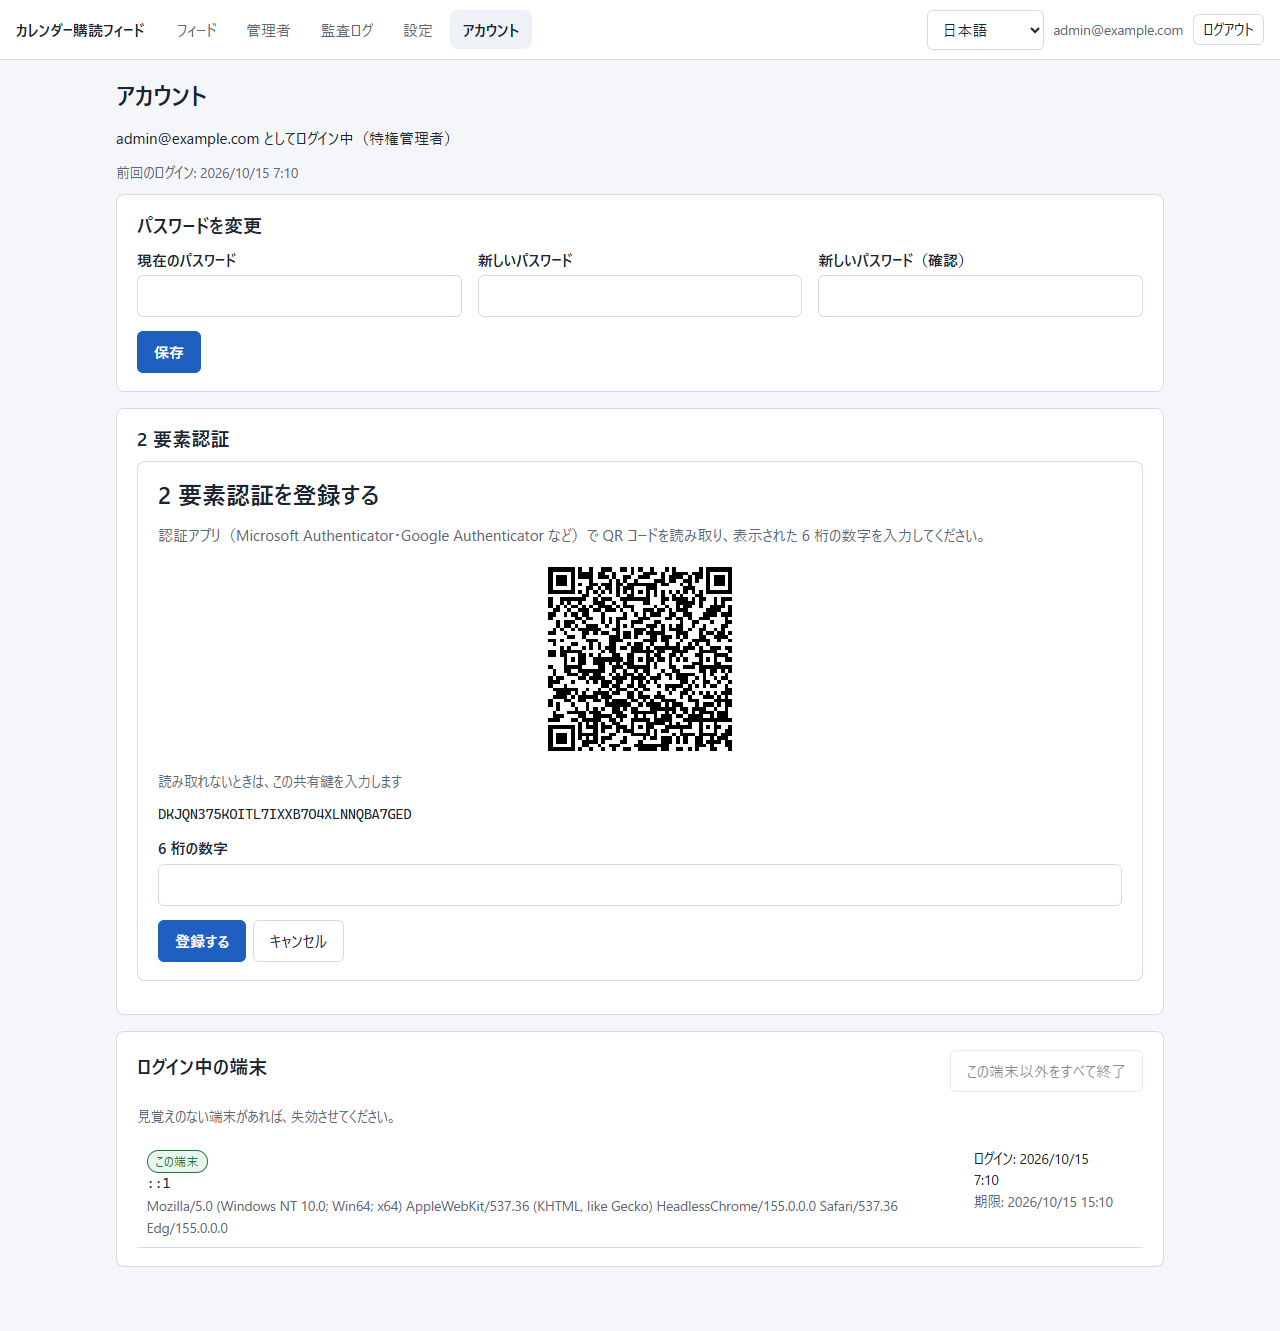
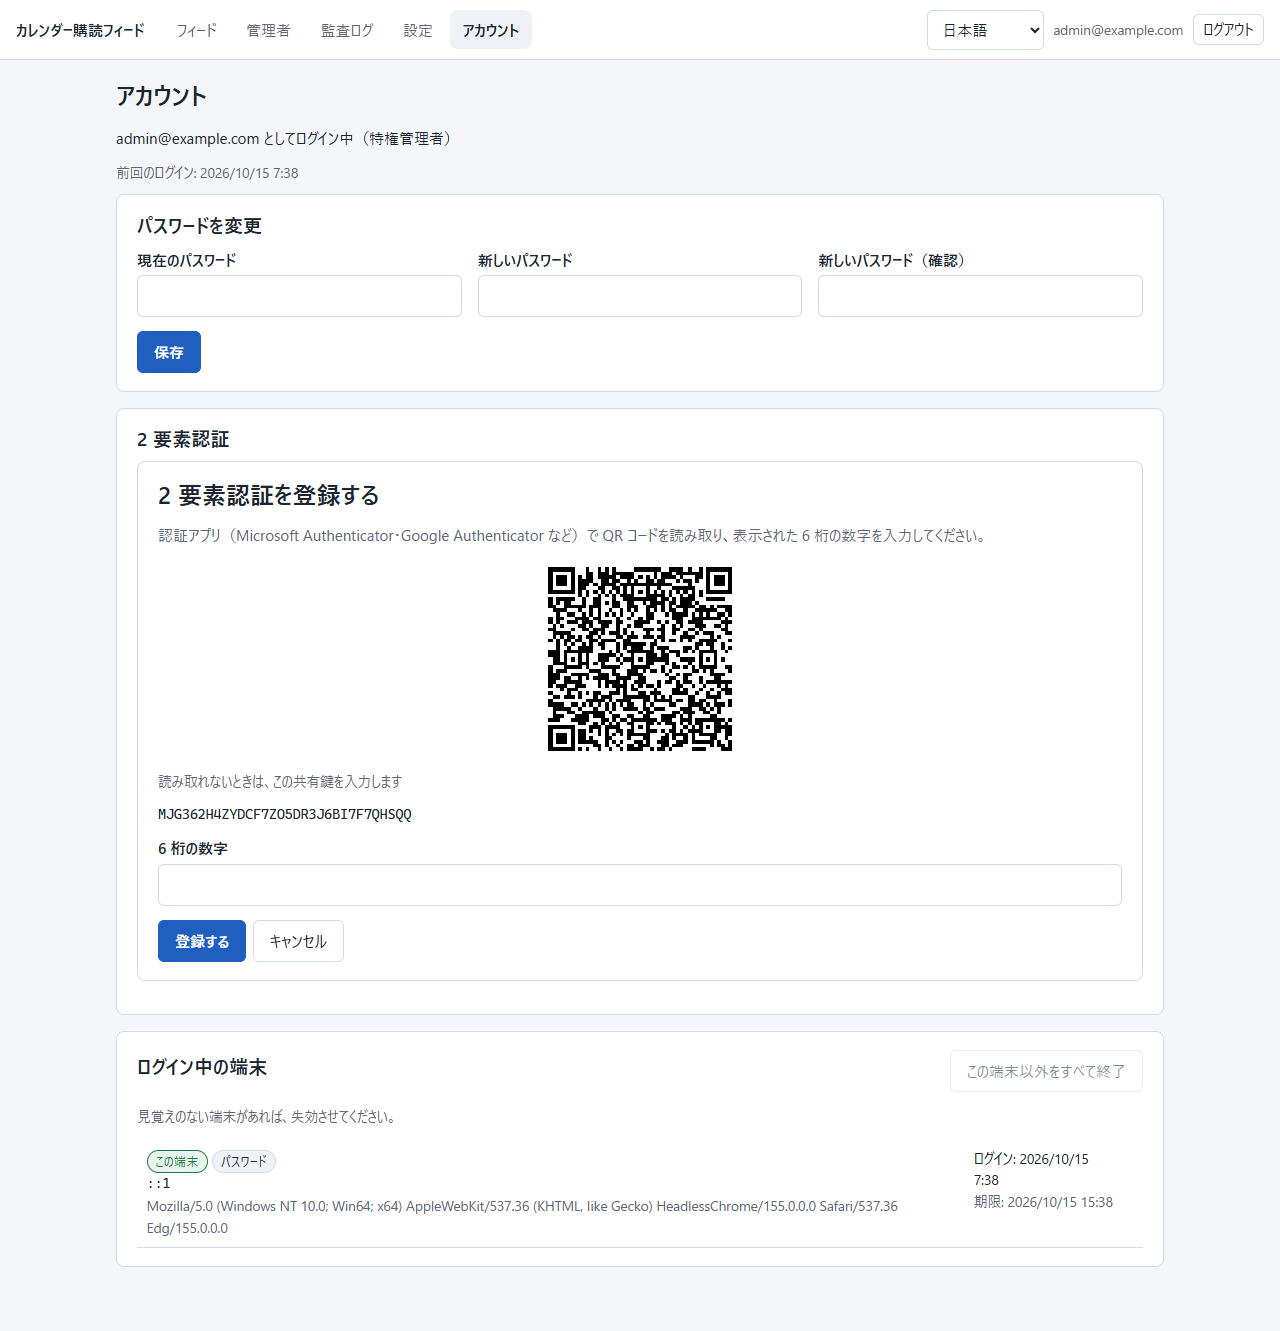
端末の一覧に入った方式を出し、管理者が他人の端末を個別に失効できるようにする（監査ログは SSO の操作と理由に対応）
セッションの一覧に via（password/saml/pleasanter）を出す。GET /admin/api/users/{id}/sessions（users.read）と DELETE …/sessions/{handle}（users.write。監査ログ user.session_revoked）を足す。監査ログの絞り込みへ SAML・Pleasanter のログインの操作を足し、失敗の理由を 7 言語で補足する。検証: dotnet test 全通過（Web 213 件・新規 5 件）、svelte-check 0 件、vitest 18 件。画面の写しを撮り直した。

Changed region(s): [[0.4062, 0.4005, 0.5938, 0.5853], [0.125, 0.5853, 0.3125, 0.6161], [0.1562, 0.8625, 0.2188, 0.8933]]

diff --git a/src/VehicleVision.PleasanterTools.CalendarFeed.Frontend/src/components/UserList.svelte b/src/VehicleVision.PleasanterTools.CalendarFeed.Frontend/src/components/UserList.svelte
@@ -2,7 +2,7 @@
   import { api } from '../lib/api';
   import { errorText } from '../lib/errors';
   import { dt, language, t } from '../lib/i18n/state.svelte';
-  import { ROLES, type AdminUser, type Invitation, type Me, type Permission, type Role } from '../lib/types';
+  import { ROLES, type AdminUser, type UserSessionInfo, type Invitation, type Me, type Permission, type Role } from '../lib/types';
   import type { MessageKey } from '../lib/i18n/messages';
   import ConfirmDialog from './ConfirmDialog.svelte';
   import CopyField from './CopyField.svelte';
@@ -25,6 +25,34 @@
   let inviteRole = $state<Role>('Editor');
   let inviteError = $state('');
   let issued = $state<Invitation | null>(null);
+  // 利用者のログイン中の端末（管理者が見る。1 つずつ失効させられる）
+  let sessionsOf = $state<{ user: AdminUser; list: UserSessionInfo[] } | null>(null);
+
+  async function showSessions(user: AdminUser): Promise<void> {
+    const result = await api.userSessions(user.id);
+    if (!result.ok) {
+      error = errorText(result);
+      return;
+    }
+
+    sessionsOf = { user, list: result.value };
+  }
+
+  async function revokeOne(handle: string): Promise<void> {
+    if (!sessionsOf) return;
+    const result = await api.revokeUserSession(sessionsOf.user.id, handle);
+    if (!result.ok) {
+      error = errorText(result);
+      return;
+    }
+
+    flash = t('sessionRevoked');
+    await showSessions(sessionsOf.user);
+  }
+
+  const viaLabel = (via: string): string =>
+    via === 'saml' ? t('sessionViaSaml') : via === 'pleasanter' ? t('sessionViaPleasanter') : t('sessionViaPassword');
+
   let action = $state<{ kind: 'disable' | 'resetTotp' | 'revokeSessions'; user: AdminUser } | null>(null);
 
   const roleLabel = (role: Role): string => t(`role${role}` as MessageKey);
@@ -165,6 +193,9 @@
                   {/if}
                   <button class="btn small" type="button" onclick={() => (action = { kind: 'revokeSessions', user })}>{t('userRevokeSessions')}</button>
                 {/if}
+                {#if user.id !== me.id}
+                  <button class="btn small" type="button" onclick={() => showSessions(user)}>{t('userSessions')}</button>
+                {/if}
                 {#if canResetTotp && user.id !== me.id && user.totpEnabled}
                   <button class="btn small" type="button" onclick={() => (action = { kind: 'resetTotp', user })}>{t('userResetTotp')}</button>
                 {/if}
@@ -209,6 +240,38 @@
       <div class="hint">{t('invitationUrlOnce', { expires: dt(issued.expiresAt) })}</div>
     </div>
     <div class="dialog-actions"><button class="btn primary" type="button" onclick={() => (issued = null)}>{t('close')}</button></div>
+  </Modal>
+{/if}
+
+{#if sessionsOf}
+  <Modal title={t('userSessionsTitle', { name: sessionsOf.user.loginId })} wide onclose={() => (sessionsOf = null)}>
+    {#if sessionsOf.list.length === 0}
+      <p class="muted">{t('userSessionsEmpty')}</p>
+    {:else}
+      <div class="table-wrap">
+        <table>
+          <tbody>
+            {#each sessionsOf.list as session (session.handle)}
+              <tr>
+                <td>
+                  <span class="badge">{viaLabel(session.via)}</span>
+                  <div class="small mono">{session.ipAddress ?? ''}</div>
+                  <div class="small muted">{session.userAgent ?? ''}</div>
+                </td>
+                <td class="small">
+                  <div>{t('sessionSince', { time: dt(session.createdAt) })}</div>
+                  <div class="muted">{t('sessionExpires', { time: dt(session.expiresAt) })}</div>
+                </td>
+                <td>
+                  {#if canWrite}<button class="btn small danger" type="button" onclick={() => revokeOne(session.handle)}>{t('sessionRevoke')}</button>{/if}
+                </td>
+              </tr>
+            {/each}
+          </tbody>
+        </table>
+      </div>
+    {/if}
+    <div class="dialog-actions"><button class="btn primary" type="button" onclick={() => (sessionsOf = null)}>{t('close')}</button></div>
   </Modal>
 {/if}
 

diff --git a/src/VehicleVision.PleasanterTools.CalendarFeed.Frontend/src/components/AuditLogList.svelte b/src/VehicleVision.PleasanterTools.CalendarFeed.Frontend/src/components/AuditLogList.svelte
@@ -2,6 +2,7 @@
   import { api } from '../lib/api';
   import { errorText } from '../lib/errors';
   import { dt, t } from '../lib/i18n/state.svelte';
+  import type { MessageKey } from '../lib/i18n/messages';
   import type { AuditEntry } from '../lib/types';
   import Notice from './Notice.svelte';
 
@@ -12,11 +13,17 @@
     'login.locked',
     'login.totp_failed',
     'login.recovery_used',
+    'login.recovery_failed',
+    'login.saml_failed',
+    'login.pleasanter_sso_failed',
     'logout',
     'admin.setup',
     'password.changed',
+    'password.change_failed',
     'totp.enrolled',
+    'totp.enroll_failed',
     'totp.disabled',
+    'totp.disable_failed',
     'feed.created',
     'feed.updated',
     'feed.token_rotated',
@@ -30,9 +37,36 @@
     'user.role_changed',
     'user.totp_reset',
     'user.sessions_revoked',
+    'user.session_revoked',
+    'user.saml_registered',
+    'user.pleasanter_sso_registered',
+    'session.revoked',
+    'session.revoked_others',
     'settings.updated',
     'settings.mail_test',
   ];
+
+  /** 失敗の理由（サーバが `Detail` に入れる印）を、画面の言語で補う。知らない印は、そのまま出す。 */
+  const REASONS: Record<string, MessageKey> = {
+    'bad-password': 'auditReasonBadPassword',
+    'bad-current-password': 'auditReasonBadPassword',
+    locked: 'auditReasonLocked',
+    disabled: 'auditReasonDisabled',
+    'unknown-user': 'auditReasonUnknownUser',
+    'no-relay': 'auditReasonNoRelay',
+    'invalid-response': 'auditReasonInvalidResponse',
+    'destination-mismatch': 'auditReasonInvalidResponse',
+    'in-response-to-mismatch': 'auditReasonInvalidResponse',
+    'no-login-id': 'auditReasonNoLoginId',
+    'membership-not-configured': 'auditReasonMembershipNotConfigured',
+    'membership-not-allowed': 'auditReasonNotAllowed',
+  };
+
+  function reasonText(detail: string | null): string {
+    if (!detail) return '';
+    const key = REASONS[detail] ?? (detail.startsWith('idp-status=') ? 'auditReasonIdpStatus' : detail.startsWith('upstream-error:') ? 'auditReasonUpstream' : null);
+    return key ? t(key) : '';
+  }
 
   const PAGE = 50;
 
@@ -106,7 +140,10 @@
             <td data-label={t('auditResult')}><span class="badge {entry.succeeded ? 'ok' : 'bad'}">{entry.succeeded ? t('resultSuccess') : t('resultFailure')}</span></td>
             <td data-label={t('auditWho')}>{entry.loginId ?? ''}</td>
             <td class="small" data-label={t('auditTarget')}>{#if entry.targetType}{entry.targetType} <span class="mono">{entry.targetId?.slice(0, 8) ?? ''}</span>{/if}</td>
-            <td class="small mono" data-label={t('auditDetail')}>{entry.detail ?? ''}</td>
+            <td class="small" data-label={t('auditDetail')}>
+              <span class="mono">{entry.detail ?? ''}</span>
+              {#if reasonText(entry.detail)}<div class="muted">{reasonText(entry.detail)}</div>{/if}
+            </td>
             <td class="small mono" data-label={t('auditIp')}>{entry.ipAddress ?? ''}</td>
           </tr>
         {/each}

diff --git a/src/VehicleVision.PleasanterTools.CalendarFeed.Frontend/src/lib/i18n/messages/vi.ts b/src/VehicleVision.PleasanterTools.CalendarFeed.Frontend/src/lib/i18n/messages/vi.ts
@@ -325,6 +325,23 @@ export const vi: Record<MessageKey, string> = {
   sessionSince: 'Đăng nhập: {time}',
   sessionExpires: 'Hết hạn: {time}',
   sessionRevoke: 'Đăng xuất',
+  sessionViaPassword: 'Mật khẩu',
+  sessionViaSaml: 'SAML',
+  sessionViaPleasanter: 'Pleasanter',
+  userSessions: 'Thiết bị',
+  userSessionsTitle: 'Các thiết bị đang đăng nhập của {name}',
+  userSessionsEmpty: 'Không có thiết bị nào đang đăng nhập.',
+  auditReasonBadPassword: 'Sai mật khẩu',
+  auditReasonLocked: 'Đang bị khóa',
+  auditReasonDisabled: 'Tài khoản đã bị vô hiệu hóa',
+  auditReasonUnknownUser: 'Người dùng này chưa được đăng ký trong ứng dụng',
+  auditReasonNoRelay: 'Không có bản ghi về việc bắt đầu đăng nhập (cookie không đến hoặc đã hết hạn)',
+  auditReasonInvalidResponse: 'Không thể xác minh phản hồi của IdP (chữ ký, đích đến hoặc sự khớp với yêu cầu)',
+  auditReasonNoLoginId: 'Phản hồi không có ID đăng nhập',
+  auditReasonIdpStatus: 'IdP đã từ chối xác thực',
+  auditReasonMembershipNotConfigured: 'Chưa thiết lập tổ chức/nhóm được phép để tự động đăng ký',
+  auditReasonNotAllowed: 'Không thuộc tổ chức hoặc nhóm được phép',
+  auditReasonUpstream: 'Không thể xác minh với Pleasanter',
   sessionRevokeOthers: 'Đăng xuất tất cả thiết bị khác',
   sessionRevoked: 'Đã đăng xuất thiết bị.',
 };

diff --git a/src/VehicleVision.PleasanterTools.CalendarFeed.Frontend/src/lib/i18n/messages/es.ts b/src/VehicleVision.PleasanterTools.CalendarFeed.Frontend/src/lib/i18n/messages/es.ts
@@ -325,6 +325,23 @@ export const es: Record<MessageKey, string> = {
   sessionSince: 'Sesión iniciada: {time}',
   sessionExpires: 'Caduca: {time}',
   sessionRevoke: 'Cerrar sesión',
+  sessionViaPassword: 'Contraseña',
+  sessionViaSaml: 'SAML',
+  sessionViaPleasanter: 'Pleasanter',
+  userSessions: 'Dispositivos',
+  userSessionsTitle: 'Dispositivos con sesión iniciada de {name}',
+  userSessionsEmpty: 'No hay dispositivos con sesión iniciada.',
+  auditReasonBadPassword: 'Contraseña incorrecta',
+  auditReasonLocked: 'Bloqueado',
+  auditReasonDisabled: 'La cuenta está deshabilitada',
+  auditReasonUnknownUser: 'La persona no está registrada en esta aplicación',
+  auditReasonNoRelay: 'No hay registro del inicio de sesión (cookie ausente o caducada)',
+  auditReasonInvalidResponse: 'No se pudo verificar la respuesta del IdP (firma, destino o correspondencia con la solicitud)',
+  auditReasonNoLoginId: 'La respuesta no contiene un ID de inicio de sesión',
+  auditReasonIdpStatus: 'El IdP rechazó la autenticación',
+  auditReasonMembershipNotConfigured: 'No se han configurado los departamentos/grupos permitidos para el registro automático',
+  auditReasonNotAllowed: 'No pertenece a un departamento o grupo permitido',
+  auditReasonUpstream: 'No se pudo verificar con Pleasanter',
   sessionRevokeOthers: 'Cerrar sesión en todos los demás dispositivos',
   sessionRevoked: 'Se cerró la sesión del dispositivo.',
 };

diff --git a/src/VehicleVision.PleasanterTools.CalendarFeed.Frontend/src/lib/i18n/messages/ko.ts b/src/VehicleVision.PleasanterTools.CalendarFeed.Frontend/src/lib/i18n/messages/ko.ts
@@ -325,6 +325,23 @@ export const ko: Record<MessageKey, string> = {
   sessionSince: '로그인: {time}',
   sessionExpires: '만료: {time}',
   sessionRevoke: '로그아웃',
+  sessionViaPassword: '비밀번호',
+  sessionViaSaml: 'SAML',
+  sessionViaPleasanter: 'Pleasanter',
+  userSessions: '기기',
+  userSessionsTitle: '{name}의 로그인 중인 기기',
+  userSessionsEmpty: '로그인 중인 기기가 없습니다.',
+  auditReasonBadPassword: '비밀번호가 올바르지 않습니다',
+  auditReasonLocked: '잠겨 있습니다',
+  auditReasonDisabled: '비활성화되어 있습니다',
+  auditReasonUnknownUser: '이 앱에 등록되지 않은 사용자입니다',
+  auditReasonNoRelay: '로그인 시작 기록이 없습니다(cookie가 전달되지 않았거나 만료됨)',
+  auditReasonInvalidResponse: 'IdP의 응답을 검증하지 못했습니다(서명·대상·요청과의 대응)',
+  auditReasonNoLoginId: '응답에 로그인 ID가 없습니다',
+  auditReasonIdpStatus: 'IdP가 인증을 거부했습니다',
+  auditReasonMembershipNotConfigured: '자동 등록 조건의 조직·그룹이 설정되지 않았습니다',
+  auditReasonNotAllowed: '허용된 조직·그룹에 속해 있지 않습니다',
+  auditReasonUpstream: 'Pleasanter에서 확인하지 못했습니다',
   sessionRevokeOthers: '다른 모든 기기 로그아웃',
   sessionRevoked: '기기를 로그아웃했습니다.',
 };

diff --git a/src/VehicleVision.PleasanterTools.CalendarFeed.Frontend/src/lib/i18n/messages/ja.ts b/src/VehicleVision.PleasanterTools.CalendarFeed.Frontend/src/lib/i18n/messages/ja.ts
@@ -327,6 +327,23 @@ export const ja = {
   sessionSince: 'ログイン: {time}',
   sessionExpires: '期限: {time}',
   sessionRevoke: '失効',
+  sessionViaPassword: 'パスワード',
+  sessionViaSaml: 'SAML',
+  sessionViaPleasanter: 'Pleasanter',
+  userSessions: '端末',
+  userSessionsTitle: '{name} のログイン中の端末',
+  userSessionsEmpty: 'ログイン中の端末はありません。',
+  auditReasonBadPassword: 'パスワードが違います',
+  auditReasonLocked: '締め出し中です',
+  auditReasonDisabled: '無効化されています',
+  auditReasonUnknownUser: '本アプリに登録されていない利用者です',
+  auditReasonNoRelay: 'ログインの開始の記録が無い（cookie が届いていない・期限切れ）',
+  auditReasonInvalidResponse: 'IdP の応答を検証できませんでした（署名・宛先・要求との対応）',
+  auditReasonNoLoginId: '応答にログイン ID がありません',
+  auditReasonIdpStatus: 'IdP が認証を断りました',
+  auditReasonMembershipNotConfigured: '自動登録の条件の組織・グループが未設定です',
+  auditReasonNotAllowed: '許可された組織・グループに所属していません',
+  auditReasonUpstream: 'Pleasanter に確かめられませんでした',
   sessionRevokeOthers: 'この端末以外をすべて終了',
   sessionRevoked: '端末を失効させました。',
 } as const;

diff --git a/src/VehicleVision.PleasanterTools.CalendarFeed.Frontend/src/lib/i18n/messages/de.ts b/src/VehicleVision.PleasanterTools.CalendarFeed.Frontend/src/lib/i18n/messages/de.ts
@@ -325,6 +325,23 @@ export const de: Record<MessageKey, string> = {
   sessionSince: 'Angemeldet: {time}',
   sessionExpires: 'Läuft ab: {time}',
   sessionRevoke: 'Abmelden',
+  sessionViaPassword: 'Passwort',
+  sessionViaSaml: 'SAML',
+  sessionViaPleasanter: 'Pleasanter',
+  userSessions: 'Geräte',
+  userSessionsTitle: 'Angemeldete Geräte von {name}',
+  userSessionsEmpty: 'Es gibt keine angemeldeten Geräte.',
+  auditReasonBadPassword: 'Falsches Passwort',
+  auditReasonLocked: 'Gesperrt',
+  auditReasonDisabled: 'Das Konto ist deaktiviert',
+  auditReasonUnknownUser: 'Die Person ist in dieser App nicht registriert',
+  auditReasonNoRelay: 'Kein Eintrag zum Start der Anmeldung (cookie fehlt oder ist abgelaufen)',
+  auditReasonInvalidResponse: 'Die IdP-Antwort konnte nicht geprüft werden (Signatur, Ziel oder Zuordnung zur Anfrage)',
+  auditReasonNoLoginId: 'Die Antwort enthält keine Login-ID',
+  auditReasonIdpStatus: 'Der IdP hat die Authentifizierung abgelehnt',
+  auditReasonMembershipNotConfigured: 'Die erlaubten Abteilungen/Gruppen für die automatische Registrierung sind nicht festgelegt',
+  auditReasonNotAllowed: 'Gehört keiner erlaubten Abteilung oder Gruppe an',
+  auditReasonUpstream: 'Die Prüfung bei Pleasanter war nicht möglich',
   sessionRevokeOthers: 'Alle anderen Geräte abmelden',
   sessionRevoked: 'Das Gerät wurde abgemeldet.',
 };

diff --git a/src/VehicleVision.PleasanterTools.CalendarFeed.Frontend/src/lib/i18n/messages/en.ts b/src/VehicleVision.PleasanterTools.CalendarFeed.Frontend/src/lib/i18n/messages/en.ts
@@ -325,6 +325,23 @@ export const en: Record<MessageKey, string> = {
   sessionSince: 'Signed in: {time}',
   sessionExpires: 'Expires: {time}',
   sessionRevoke: 'Sign out',
+  sessionViaPassword: 'Password',
+  sessionViaSaml: 'SAML',
+  sessionViaPleasanter: 'Pleasanter',
+  userSessions: 'Devices',
+  userSessionsTitle: 'Signed-in devices of {name}',
+  userSessionsEmpty: 'There are no signed-in devices.',
+  auditReasonBadPassword: 'Wrong password',
+  auditReasonLocked: 'Locked out',
+  auditReasonDisabled: 'The account is disabled',
+  auditReasonUnknownUser: 'The person is not registered in this app',
+  auditReasonNoRelay: 'No record of the sign-in start (cookie missing or expired)',
+  auditReasonInvalidResponse: 'The IdP response could not be verified (signature, destination or request match)',
+  auditReasonNoLoginId: 'The response has no login ID',
+  auditReasonIdpStatus: 'The IdP refused the authentication',
+  auditReasonMembershipNotConfigured: 'Allowed departments/groups for automatic registration are not set',
+  auditReasonNotAllowed: 'Not in an allowed department or group',
+  auditReasonUpstream: 'Could not verify with Pleasanter',
   sessionRevokeOthers: 'Sign out all other devices',
   sessionRevoked: 'The device was signed out.',
 };

diff --git a/src/VehicleVision.PleasanterTools.CalendarFeed.Frontend/src/lib/i18n/messages/zh.ts b/src/VehicleVision.PleasanterTools.CalendarFeed.Frontend/src/lib/i18n/messages/zh.ts
@@ -325,6 +325,23 @@ export const zh: Record<MessageKey, string> = {
   sessionSince: '登录时间：{time}',
   sessionExpires: '到期时间：{time}',
   sessionRevoke: '退出登录',
+  sessionViaPassword: '密码',
+  sessionViaSaml: 'SAML',
+  sessionViaPleasanter: 'Pleasanter',
+  userSessions: '设备',
+  userSessionsTitle: '{name} 已登录的设备',
+  userSessionsEmpty: '没有已登录的设备。',
+  auditReasonBadPassword: '密码错误',
+  auditReasonLocked: '已被锁定',
+  auditReasonDisabled: '已被停用',
+  auditReasonUnknownUser: '此用户未在本应用中注册',
+  auditReasonNoRelay: '没有登录开始的记录（cookie 未送达或已过期）',
+  auditReasonInvalidResponse: '无法验证 IdP 的响应（签名、目标或与请求的对应）',
+  auditReasonNoLoginId: '响应中没有登录 ID',
+  auditReasonIdpStatus: 'IdP 拒绝了认证',
+  auditReasonMembershipNotConfigured: '自动注册条件中的组织/组尚未设置',
+  auditReasonNotAllowed: '不属于允许的组织/组',
+  auditReasonUpstream: '无法通过 Pleasanter 确认',
   sessionRevokeOthers: '退出所有其他设备',
   sessionRevoked: '该设备已退出登录。',
 };

diff --git a/src/VehicleVision.PleasanterTools.CalendarFeed.Frontend/src/lib/api.ts b/src/VehicleVision.PleasanterTools.CalendarFeed.Frontend/src/lib/api.ts
@@ -1,4 +1,5 @@
 import type {
+  UserSessionInfo,
   PleasanterSsoTest,
   AdminUser,
   AuditEntry,
@@ -116,6 +117,8 @@ export const api = {
   mailStatus: () => get<MailStatus>('/mail/status'),
   settings: () => get<{ settings: Setting[] }>('/settings/'),
   saveSettings: (values: Record<string, string | null>) => put<{ settings: Setting[] }>('/settings/', { values }),
+  userSessions: (id: string) => get<UserSessionInfo[]>(`/users/${enc(id)}/sessions`),
+  revokeUserSession: (id: string, handle: string) => del<void>(`/users/${enc(id)}/sessions/${enc(handle)}`),
   pleasanterSsoCheck: () => post<{ status: 'unauthenticated' } | { status: 'signedIn'; next: Step }>('/pleasanter-sso/check'),
   pleasanterSsoTest: () => post<PleasanterSsoTest>('/pleasanter-sso/test'),
   testMail: () => post<{ queued: boolean; reason: string | null }>('/settings/mail/test'),

diff --git a/src/VehicleVision.PleasanterTools.CalendarFeed.Frontend/src/components/AccountPanel.svelte b/src/VehicleVision.PleasanterTools.CalendarFeed.Frontend/src/components/AccountPanel.svelte
@@ -67,6 +67,9 @@
     onchanged();
   }
 
+  const viaLabel = (via: string): string =>
+    via === 'saml' ? t('sessionViaSaml') : via === 'pleasanter' ? t('sessionViaPleasanter') : t('sessionViaPassword');
+
   async function revoke(handle: string): Promise<void> {
     const result = await api.revokeMySession(handle);
     if (!result.ok) error = errorText(result);
@@ -161,6 +164,7 @@
             <tr>
               <td>
                 {#if session.isCurrent}<span class="badge ok">{t('sessionCurrent')}</span>{/if}
+                <span class="badge">{viaLabel(session.via)}</span>
                 <div class="small mono">{session.ipAddress ?? ''}</div>
                 <div class="small muted">{session.userAgent ?? ''}</div>
               </td>

diff --git a/src/VehicleVision.PleasanterTools.CalendarFeed.Frontend/src/lib/types.ts b/src/VehicleVision.PleasanterTools.CalendarFeed.Frontend/src/lib/types.ts
@@ -153,7 +153,12 @@ export interface SessionInfo {
   expiresAt: string;
   ipAddress: string | null;
   userAgent: string | null;
+  /** 入った方式（表示用）。 */
+  via: 'password' | 'saml' | 'pleasanter';
 }
+
+/** 管理者が見る、利用者のログイン中の端末（自分の一覧との違いは、いまの端末の印が無いこと）。 */
+export type UserSessionInfo = Omit<SessionInfo, 'isCurrent'>;
 
 export type SettingType = 'String' | 'Boolean' | 'Integer';
 
